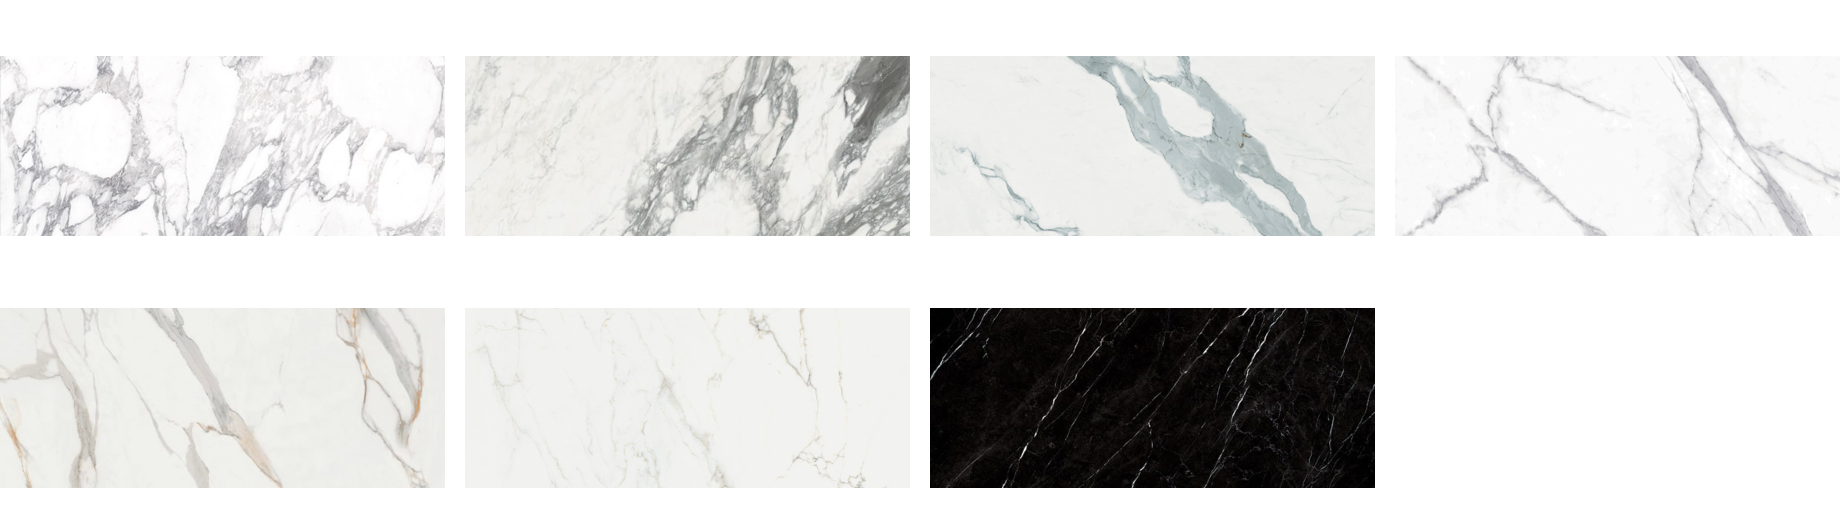
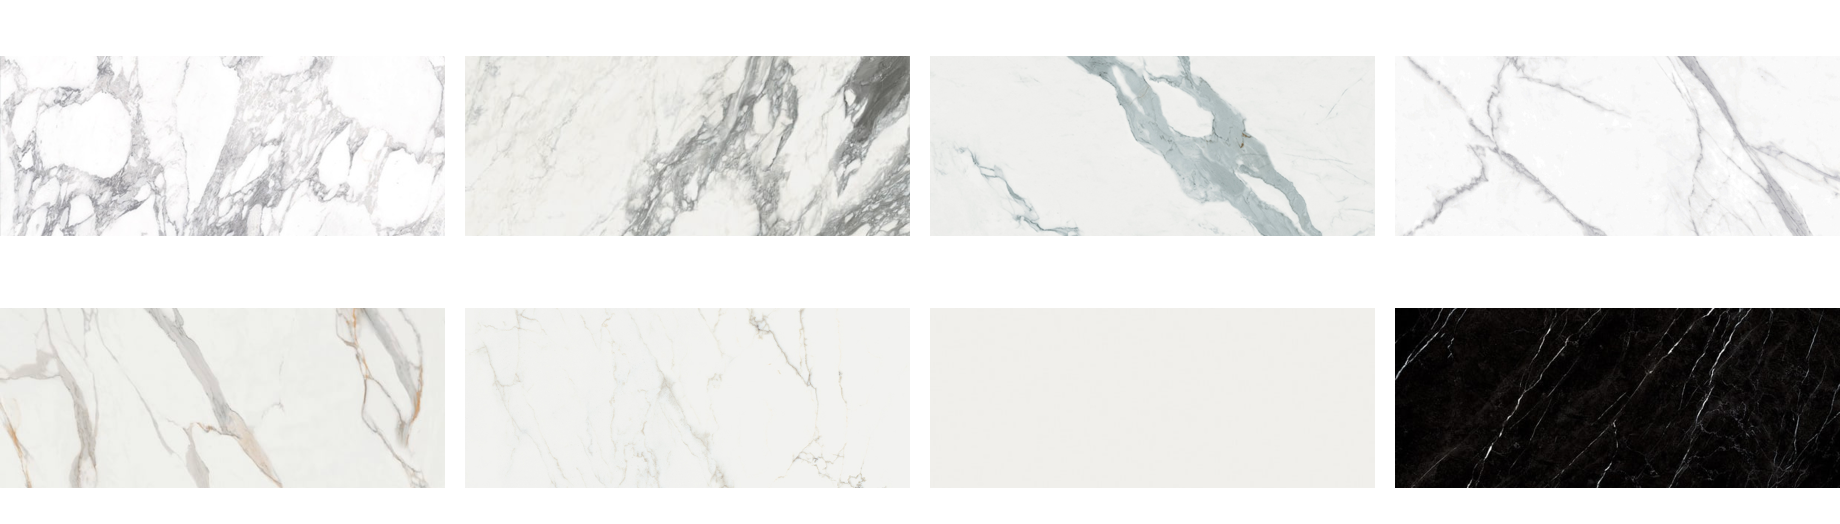
ㄹㅇ

Changed region(s): [[0.4957, 0.5802, 1.0, 0.9466]]

diff --git a/lib/model/deskmodel.dart b/lib/model/deskmodel.dart
@@ -285,7 +285,7 @@ class DeskCustomizationModel with ChangeNotifier {
     '샹베리': {
       '화이트': 'assets/images/leg3.png',
       '블랙': 'assets/images/leg3-2.png',
-    },  
+    },
     '라고스': {
       '브라운': 'assets/images/leg4.png',
       '블랙': 'assets/images/leg4-2.png',
@@ -315,6 +315,7 @@ class DeskCustomizationModel with ChangeNotifier {
         '아라베스카토': 'assets/images/te8.png',
         '스타투아리오': 'assets/images/te9.png',
         '네로 마퀴니아': 'assets/images/te10.png',
+        '앱솔루트 화이트': 'assets/images/te11.png',
         '기타': 'assets/images/te1.png',
         // Add more patterns here
       },
@@ -330,6 +331,8 @@ class DeskCustomizationModel with ChangeNotifier {
         '아라베스카토': 'assets/images/te8-2.png',
         '스타투아리오': 'assets/images/te9-2.png',
         '네로 마퀴니아': 'assets/images/te10-2.png',
+        '앱솔루트 화이트': 'assets/images/te11-2.png',
+
         '기타': 'assets/images/te1-2.png',
         // Add more patterns here
       },
@@ -348,6 +351,7 @@ class DeskCustomizationModel with ChangeNotifier {
         '아라베스카토': 'assets/images/tp8.png',
         '스타투아리오': 'assets/images/tp9.png',
         '네로 마퀴니아': 'assets/images/tp10.png',
+        '앱솔루트 화이트': 'assets/images/tp11.png',
         '기타': 'assets/images/tp1.png',
         // Add more patterns here
       },
@@ -363,6 +367,7 @@ class DeskCustomizationModel with ChangeNotifier {
         '아라베스카토': 'assets/images/tp8-2.png',
         '스타투아리오': 'assets/images/tp9-2.png',
         '네로 마퀴니아': 'assets/images/tp10-2.png',
+        '앱솔루트 화이트': 'assets/images/tp11-2.png',
         '기타': 'assets/images/tp1-2.png',
         // Add more patterns here
       },
@@ -381,6 +386,7 @@ class DeskCustomizationModel with ChangeNotifier {
         '아라베스카토': 'assets/images/ta8.png',
         '스타투아리오': 'assets/images/ta9.png',
         '네로 마퀴니아': 'assets/images/ta10.png',
+        '앱솔루트 화이트': 'assets/images/ta11.png',
         '기타': 'assets/images/ta1.png',
         // Add more patterns here
       },
@@ -399,6 +405,7 @@ class DeskCustomizationModel with ChangeNotifier {
         '아라베스카토': 'assets/images/tb8.png',
         '스타투아리오': 'assets/images/tb9.png',
         '네로 마퀴니아': 'assets/images/tb10.png',
+        '앱솔루트 화이트': 'assets/images/tb11.png',
         '기타': 'assets/images/tb1.png',
         // Add more patterns here
       },
@@ -414,6 +421,7 @@ class DeskCustomizationModel with ChangeNotifier {
         '아라베스카토': 'assets/images/tb8-2.png',
         '스타투아리오': 'assets/images/tb9-2.png',
         '네로 마퀴니아': 'assets/images/tb10-2.png',
+        '앱솔루트 화이트': 'assets/images/tb11-2.png',
         '기타': 'assets/images/tb1-2.png',
         // Add more patterns here
       },
@@ -432,6 +440,7 @@ class DeskCustomizationModel with ChangeNotifier {
         '아라베스카토': 'assets/images/tc8.png',
         '스타투아리오': 'assets/images/tc9.png',
         '네로 마퀴니아': 'assets/images/tc10.png',
+        '앱솔루트 화이트': 'assets/images/tc11.png',
         '기타': 'assets/images/tc1.png',
         // Add more patterns here
       },
@@ -447,6 +456,7 @@ class DeskCustomizationModel with ChangeNotifier {
         '아라베스카토': 'assets/images/tc8-2.png',
         '스타투아리오': 'assets/images/tc9-2.png',
         '네로 마퀴니아': 'assets/images/tc10-2.png',
+        '앱솔루트 화이트': 'assets/images/tc11-2.png',
         '기타': 'assets/images/tc1-2.png',
         // Add more patterns here
       },
@@ -465,6 +475,7 @@ class DeskCustomizationModel with ChangeNotifier {
         '아라베스카토': 'assets/images/td8.png',
         '스타투아리오': 'assets/images/td9.png',
         '네로 마퀴니아': 'assets/images/td10.png',
+        '앱솔루트 화이트': 'assets/images/td11.png',
         '기타': 'assets/images/td1.png',
         // Add more patterns here
       },
@@ -480,6 +491,7 @@ class DeskCustomizationModel with ChangeNotifier {
         '아라베스카토': 'assets/images/td8-2.png',
         '스타투아리오': 'assets/images/td9-2.png',
         '네로 마퀴니아': 'assets/images/td10-2.png',
+        '앱솔루트 화이트': 'assets/images/td11-2.png',
         '기타': 'assets/images/td1-2.png',
         // Add more patterns here
       },
@@ -498,6 +510,7 @@ class DeskCustomizationModel with ChangeNotifier {
         '아라베스카토': 'assets/images/tf8.png',
         '스타투아리오': 'assets/images/tf9.png',
         '네로 마퀴니아': 'assets/images/tf10.png',
+        '앱솔루트 화이트': 'assets/images/tf11.png',
         '기타': 'assets/images/tf1.png',
         // Add more patterns here
       },
@@ -521,6 +534,7 @@ class DeskCustomizationModel with ChangeNotifier {
         '아라베스카토': 'assets/images/ca8.png',
         '스타투아리오': 'assets/images/ca9.png',
         '네로 마퀴니아': 'assets/images/ca10.png',
+        '앱솔루트 화이트': 'assets/images/ca11.png',
         '기타': 'assets/images/ca1.png',
         // Add more patterns here
       },
@@ -536,6 +550,7 @@ class DeskCustomizationModel with ChangeNotifier {
         '아라베스카토': 'assets/images/ca8-2.png',
         '스타투아리오': 'assets/images/ca9-2.png',
         '네로 마퀴니아': 'assets/images/ca10-2.png',
+        '앱솔루트 화이트': 'assets/images/ca11-2.png',
         '기타': 'assets/images/ca1-2.png',
         // Add more patterns here
       },
@@ -554,6 +569,7 @@ class DeskCustomizationModel with ChangeNotifier {
         '아라베스카토': 'assets/images/cb8.png',
         '스타투아리오': 'assets/images/cb9.png',
         '네로 마퀴니아': 'assets/images/cb10.png',
+        '앱솔루트 화이트': 'assets/images/cb11.png',
         '기타': 'assets/images/cb1.png',
         // Add more patterns here
       },
@@ -569,6 +585,7 @@ class DeskCustomizationModel with ChangeNotifier {
         '아라베스카토': 'assets/images/cb8-2.png',
         '스타투아리오': 'assets/images/cb9-2.png',
         '네로 마퀴니아': 'assets/images/cb10-2.png',
+        '앱솔루트 화이트': 'assets/images/cb11-2.png',
         '기타': 'assets/images/cb1-2.png',
 
         // Add more patterns here
@@ -588,6 +605,7 @@ class DeskCustomizationModel with ChangeNotifier {
         '아라베스카토': 'assets/images/cc8.png',
         '스타투아리오': 'assets/images/cc9.png',
         '네로 마퀴니아': 'assets/images/cc10.png',
+        '앱솔루트 화이트': 'assets/images/cc11.png',
         '기타': 'assets/images/cc1.png',
         // Add more patterns here
       },
@@ -606,6 +624,7 @@ class DeskCustomizationModel with ChangeNotifier {
         '아라베스카토': 'assets/images/cd8.png',
         '스타투아리오': 'assets/images/cd9.png',
         '네로 마퀴니아': 'assets/images/cd10.png',
+        '앱솔루트 화이트': 'assets/images/cd11.png',
         '기타': 'assets/images/cd1.png',
         // Add more patterns here
       },
@@ -621,6 +640,7 @@ class DeskCustomizationModel with ChangeNotifier {
         '아라베스카토': 'assets/images/cd8-2.png',
         '스타투아리오': 'assets/images/cd9-2.png',
         '네로 마퀴니아': 'assets/images/cd10-2.png',
+        '앱솔루트 화이트': 'assets/images/cd11-2.png',
         '기타': 'assets/images/cd1-2.png',
         // Add more patterns here
       },
@@ -639,6 +659,7 @@ class DeskCustomizationModel with ChangeNotifier {
         '아라베스카토': 'assets/images/ce8.png',
         '스타투아리오': 'assets/images/ce9.png',
         '네로 마퀴니아': 'assets/images/ce10.png',
+        '앱솔루트 화이트': 'assets/images/ce11.png',
         '기타': 'assets/images/ce1.png',
         // Add more patterns here
       },
@@ -654,6 +675,7 @@ class DeskCustomizationModel with ChangeNotifier {
         '아라베스카토': 'assets/images/ce8-2.png',
         '스타투아리오': 'assets/images/ce9-2.png',
         '네로 마퀴니아': 'assets/images/ce10-2.png',
+        '앱솔루트 화이트': 'assets/images/ce11-2.png',
         '기타': 'assets/images/ce1-2.png',
         // Add more patterns here
       },
@@ -672,6 +694,7 @@ class DeskCustomizationModel with ChangeNotifier {
         '아라베스카토': 'assets/images/cf8.png',
         '스타투아리오': 'assets/images/cf9.png',
         '네로 마퀴니아': 'assets/images/cf10.png',
+        '앱솔루트 화이트': 'assets/images/cf11.png',
         '기타': 'assets/images/cf1.png',
         // Add more patterns here
       },
@@ -687,6 +710,7 @@ class DeskCustomizationModel with ChangeNotifier {
         '아라베스카토': 'assets/images/cf8-2.png',
         '스타투아리오': 'assets/images/cf9-2.png',
         '네로 마퀴니아': 'assets/images/cf10-2.png',
+        '앱솔루트 화이트': 'assets/images/cf11-2.png',
         '기타': 'assets/images/cf1-2.png',
         // Add more patterns here
       },
@@ -705,6 +729,7 @@ class DeskCustomizationModel with ChangeNotifier {
         '아라베스카토': 'assets/images/cg8.png',
         '스타투아리오': 'assets/images/cg9.png',
         '네로 마퀴니아': 'assets/images/cg10.png',
+        '앱솔루트 화이트': 'assets/images/cg11.png',
         '기타': 'assets/images/cg1.png',
         // Add more patterns here
       },
@@ -753,6 +778,7 @@ class DeskCustomizationModel with ChangeNotifier {
     '아라베스카토': 'assets/images/p8.png',
     '스타투아리오': 'assets/images/p9.png',
     '네로 마퀴니아': 'assets/images/p10.png',
+    '앱솔루트 화이트': 'assets/images/p12.png',
     '기타': 'assets/images/p11.png',
   };
 
@@ -776,6 +802,7 @@ class DeskCustomizationModel with ChangeNotifier {
     '엑스트라 스타투아리오': 0,
     '칼라카타 오로': 0,
     '칼라카타 글로리': 0,
+    '앱솔루트 화이트': 0,
     '비앙코': 100000,
     '아라베스카토': 300000,
     '스타투아리오': 200000,
